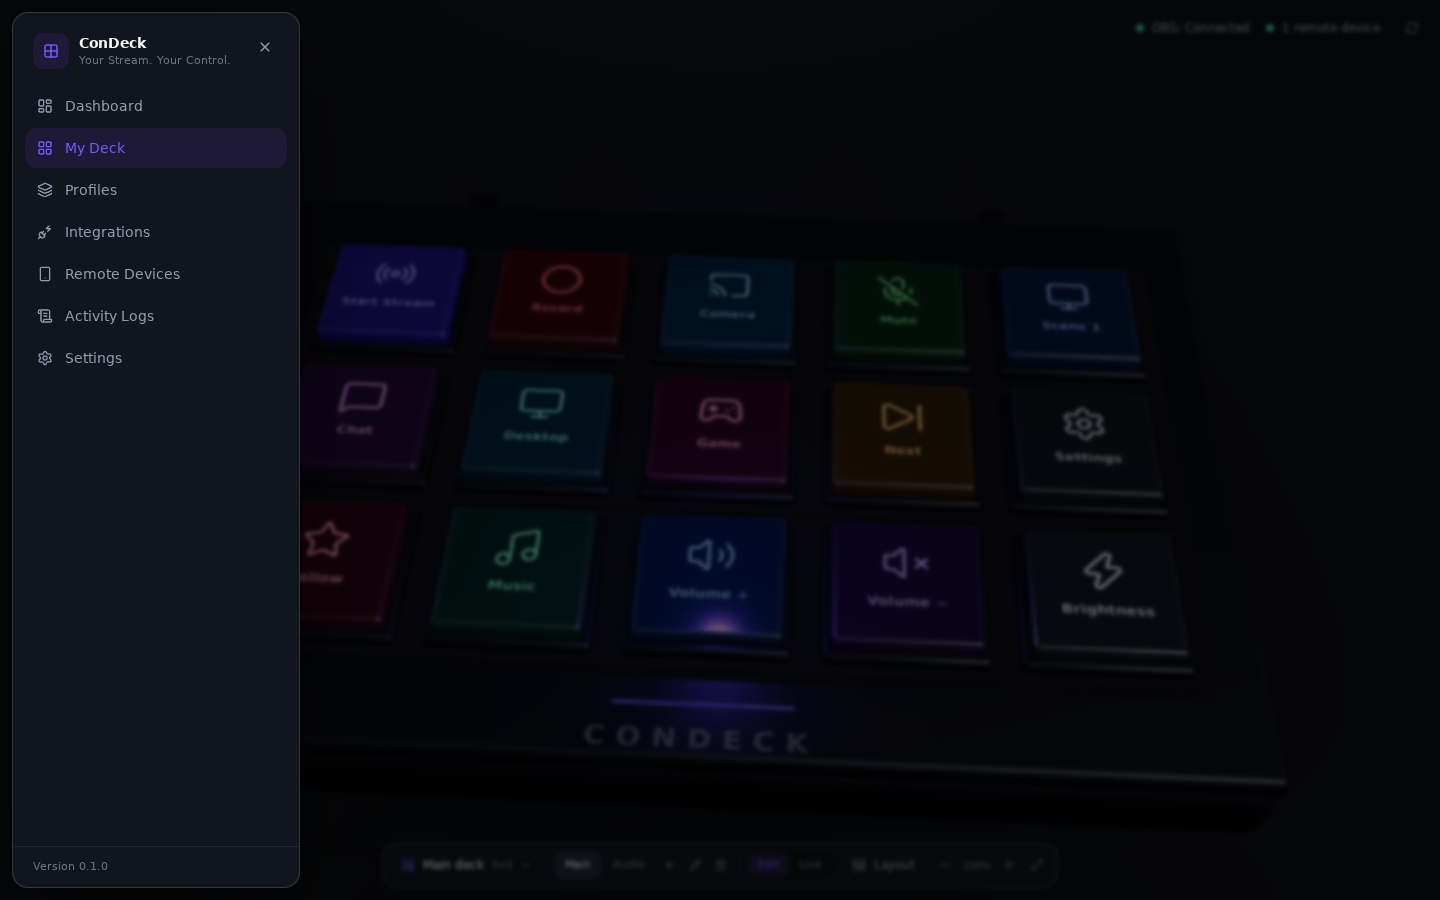
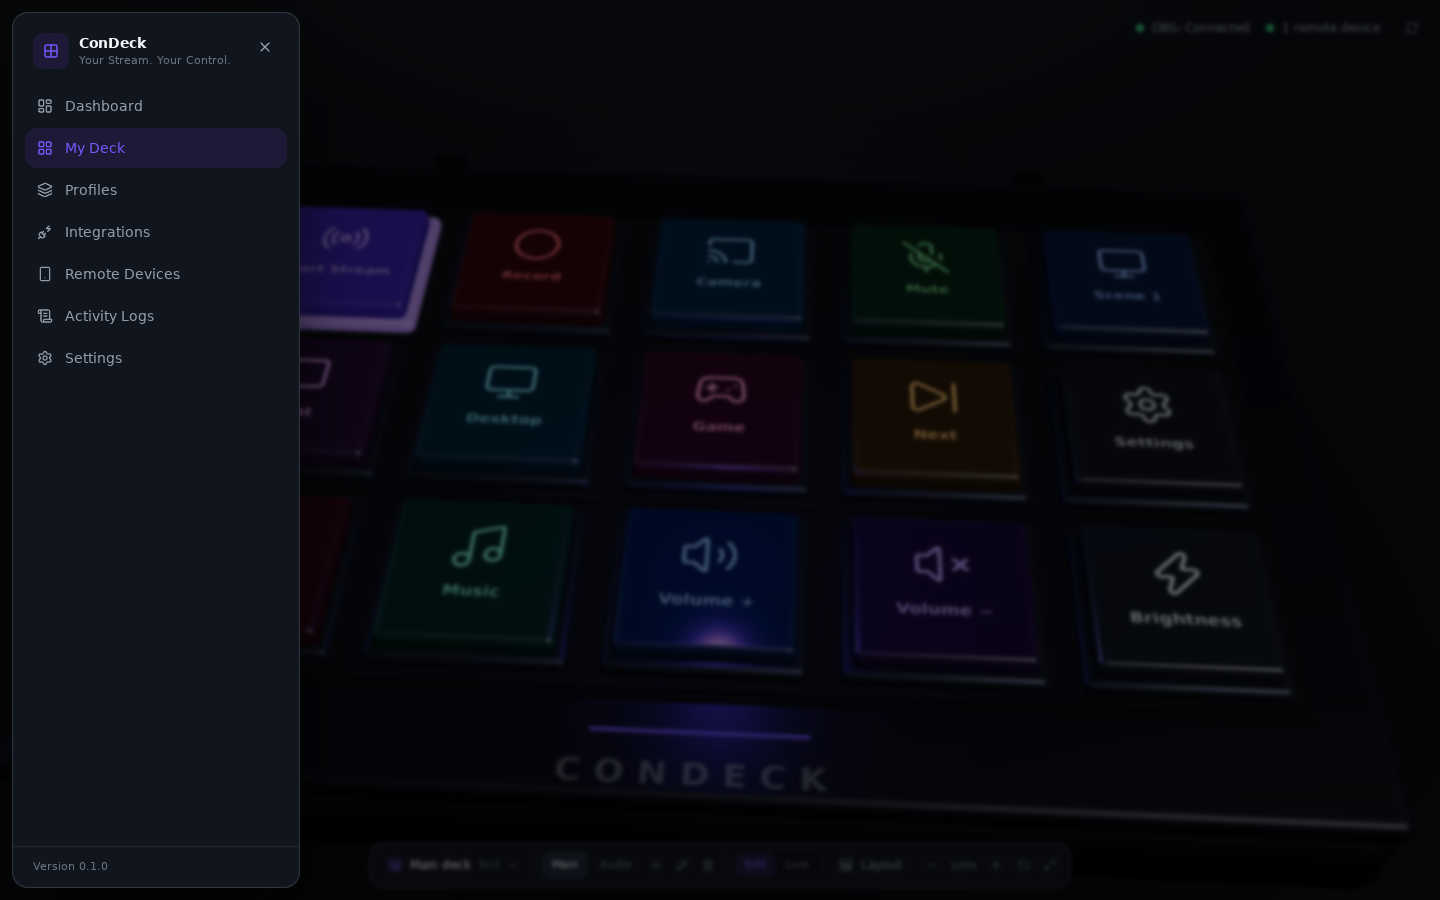
Document the interactive 3D controls and refreshed review screenshots
Explain the camera limits, per-state appearance storage and OBS-driven active
keys, and capture the rotated view and appearance panel for reviewers.

🤖 Generated with Codebuff

diff --git a/README.md b/README.md
@@ -26,6 +26,10 @@ ConDeck memindahkan kontrol OBS Studio ke layar yang benar-benar bisa kamu sentu
 
 Landing page ConDeck adalah perangkat stream deck 3D yang bisa diputar, diperbesar, dan ditekan langsung. Tidak ada sidebar permanen: navigasi dibuka lewat tombol menu di kiri atas, sehingga panggung deck memakai seluruh jendela.
 
+- **Bisa diputar seperti perangkat sungguhan.** Drag untuk memutar (kiri/kanan dan atas/bawah), scroll untuk zoom, dengan batas sudut dan jarak supaya perangkat tidak pernah hilang dari layar. Tombol **Reset view** mengembalikan sudut awal, **Fit** membingkai seluruh perangkat. Gestur sentuh ikut bekerja lewat OrbitControls.
+- **Tombol berperilaku fisik.** Keycap turun saat ditekan lalu naik kembali dengan easing, dan punya tampilan berbeda untuk normal, hover, selected, pressed, active, serta disabled.
+- **Warna RGB per tombol.** Setiap tombol menyimpan palette **Normal/Hover/Active/Pressed** sendiri: warna latar, teks/ikon, garis tepi, warna glow, dan intensitas glow. Panel properti punya color picker + input HEX, pratinjau langsung di perangkat 3D, dan reset per state. Perubahan disimpan ke database dan tetap ada setelah aplikasi dibuka lagi, terpisah untuk setiap profil.
+- **Active mengikuti OBS, bukan klik terakhir.** Tombol streaming/recording menyala hanya ketika OBS benar-benar streaming/recording, tombol scene menyala saat scene itu aktif, dan tombol mute menyala sesuai status mute input di OBS. Saat OBS terputus, semua status aktif padam.
 - **Dua mode yang jelas.** `Edit` untuk memilih dan mengonfigurasi tombol; `Live` untuk menjalankan action. Panel properti otomatis tertutup saat masuk Live.
 - **Klik untuk mengonfigurasi.** Klik keycap (atau slot kosong) untuk membuka panel properti mengambang berisi label, ikon, warna, posisi, dan action. Tidak ada panel yang selalu memakan ruang.
 - **Grid fleksibel.** Baris/kolom (1–8) disimpan di database bersama deck. Ukuran tombol, jarak, dan zoom disimpan sebagai preferensi lokal, plus tombol **Fit**. Mengecilkan grid yang masih berisi tombol meminta konfirmasi karena slot tersebut akan dihapus.
@@ -34,6 +38,10 @@ Landing page ConDeck adalah perangkat stream deck 3D yang bisa diputar, diperbes
 Tombol menu membuka drawer berisi seluruh halaman lama — Dashboard, My Deck, Profiles, Integrations, Remote Devices, Activity Logs, Settings — jadi tidak ada fitur yang hilang.
 
 ![Navigasi drawer](docs/screenshots/menu.png)
+
+![Perangkat diputar dan panel appearance](docs/screenshots/orbit.png)
+
+Perubahan warna disimpan di kolom `buttons.appearance_json` (migrasi `0001_button_appearance`). Data lama tetap valid: tombol tanpa palette memakai warna latar/teks lamanya sebagai default, jadi tidak ada reset database.
 
 ## Arsitektur
 
@@ -166,7 +174,7 @@ Menambah perubahan schema: ubah `schema.ts` → `pnpm db:generate` → daftarkan
 
 | Lapisan            | Cakupan                                                                                                              |
 | ------------------ | -------------------------------------------------------------------------------------------------------------------- |
-| Unit + integration | 230 test / 23 file — repository & migrasi database, action registry, klien OBS, remote server, protokol, UI mobile, geometri grid 3D. |
+| Unit + integration | 238 test / 24 file — repository & migrasi database, action registry, klien OBS, remote server, protokol, UI mobile, geometri grid 3D, dan status aktif tombol. |
 | E2E                | Playwright (Chromium) menjalankan **PWA hasil build** ke server remote + SQLite sungguhan: CSP/aset, pairing QR, render deck, tekan tombol sampai feedback sukses, pairing code salah. |
 | Keamanan           | Preload hanya mengekspos `condeck`; seluruh channel yang dipakai ada di allowlist IPC.                               |
 | CI                 | Setiap PR & push ke `main`: typecheck → lint → unit/integration → build → E2E.                                       |

diff --git a/docs/DECISIONS.md b/docs/DECISIONS.md
@@ -205,6 +205,14 @@ Batas data dijaga: `decks.columns`/`decks.rows` tetap satu-satunya sumber ukuran
 
 Konsekuensi lain: bundle renderer bertambah satu chunk three.js (>500 kB) yang hanya diunduh saat halaman My Deck dibuka, sehingga peringatan `chunkSizeWarningLimit` Vite tetap muncul.
 
+### ADR-034 — Appearance per tombol sebagai JSON tervalidasi, status aktif dari snapshot OBS
+
+Palette empat state (normal/hover/active/pressed) disimpan sebagai satu kolom `buttons.appearance_json` (nullable) lewat migrasi `0001_button_appearance`, bukan 16 kolom terpisah. Alasannya: palette selalu dibaca dan ditulis utuh, bentuknya divalidasi Zod di `packages/shared` dan sekali lagi di repository, dan penambahan state di masa depan tidak memerlukan migrasi baru. Data lama tidak diubah: `appearance` null berarti renderer menurunkan default dari `background_color`/`text_color`, jadi tidak ada reset atau backfill.
+
+Status aktif tidak disimpan dan tidak ditebak dari hasil klik. Renderer menurunkannya dari snapshot OBS yang sudah ada (streaming, recording, scene aktif, dan `mutedInputs` yang kini ikut dikirim ke renderer). Tombol yang aksinya gagal, tidak punya state persisten (navigasi/system), atau saat OBS terputus selalu kembali ke tampilan normal.
+
+Pratinjau warna memakai draft di store (`appearanceDraft`) yang dibaca renderer 3D; draft dibuang saat panel ditutup dan baru ditulis ke database ketika **Save changes** ditekan. Kamera memakai OrbitControls dengan batas azimuth ±0,95 rad, polar 0,30–1,34 rad, dan zoom 55–160% dari jarak fit, sehingga rotasi tidak bisa melempar perangkat keluar layar.
+
 ---
 
 ## 3. Utang teknis yang diketahui (dicatat, bukan disembunyikan)
@@ -223,3 +231,5 @@ Konsekuensi lain: bundle renderer bertambah satu chunk three.js (>500 kB) yang h
 12. Performance testing masih terbatas pada pengukuran tidak formal: belum ada benchmark berkelanjutan untuk snapshot deck besar atau latensi remote di bawah beban.
 13. Deck 3D baru diverifikasi lewat harness Chromium (screenshot `docs/screenshots`) dan unit test geometri grid, belum dijalankan di dalam Electron pada Windows. Render WebGL di GPU nyata, perilaku `safeStorage`, dan drag/zoom dengan trackpad masih perlu dicek manual.
 14. Screenshot di `docs/screenshots` dihasilkan `scripts/preview/capture.mjs` dengan bridge tiruan; angkanya bukan bukti integrasi database/OBS.
+15. Status mute hanya akurat untuk input yang pernah dilaporkan OBS lewat event `InputMuteStateChanged` atau dibaca setelah aksi mute; input yang belum pernah disentuh sebelum ConDeck terhubung tampil normal sampai statusnya diketahui.
+16. Rotasi/zoom 3D baru diuji di Chromium headless (SwiftShader) lewat harness, belum di Electron/Windows dengan GPU nyata; belum ada pengukuran FPS pada laptop kelas menengah.
